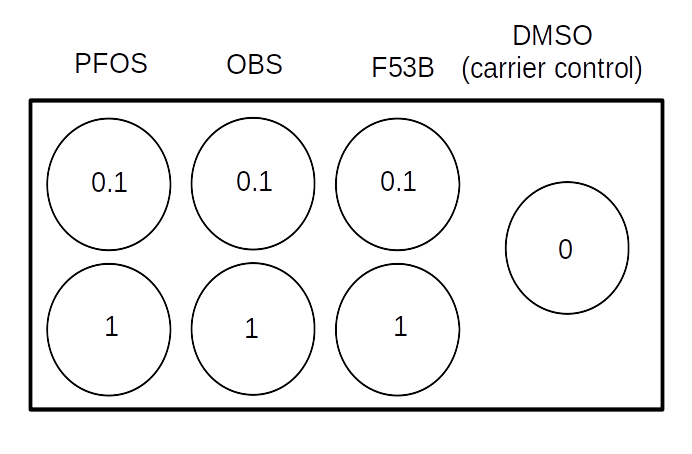
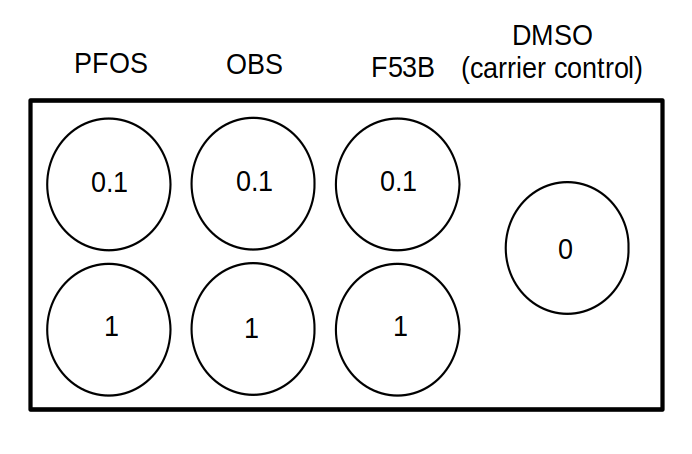
Added white background to images and uploaded README

diff --git a/README.md b/README.md
@@ -1,0 +1,1 @@
+# PFOS, OBS, and F53B Zebrafish Light and Darkness Behavioural Response
